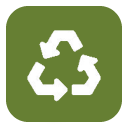
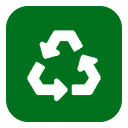
Touch up signage textures
- The sun on the "OPEN AIR" column poster no longer covers the bottom of
  the title; it sits lower in the sky, and the title is redrawn in the
  same font and place.
- The recycling and tram pictograms use the new sign green instead of
  olive.
- The font module no longer points at a generator script that is not in
  the repository.

diff --git a/src/decals/font.rs b/src/decals/font.rs
@@ -1,5 +1,5 @@
-//! Bitmap font rendering for signage. The atlases are DejaVu Sans Bold rasterized by
-//! `assets/decorations/tools/gen_font.py`; see that script for the index format.
+//! Bitmap font rendering for signage. The atlases are DejaVu Sans Bold at five sizes;
+//! `Font::parse` reads the index format.
 
 use super::draw::{mix, Canvas};
 use crate::map_item_palette::TRANSPARENT;
